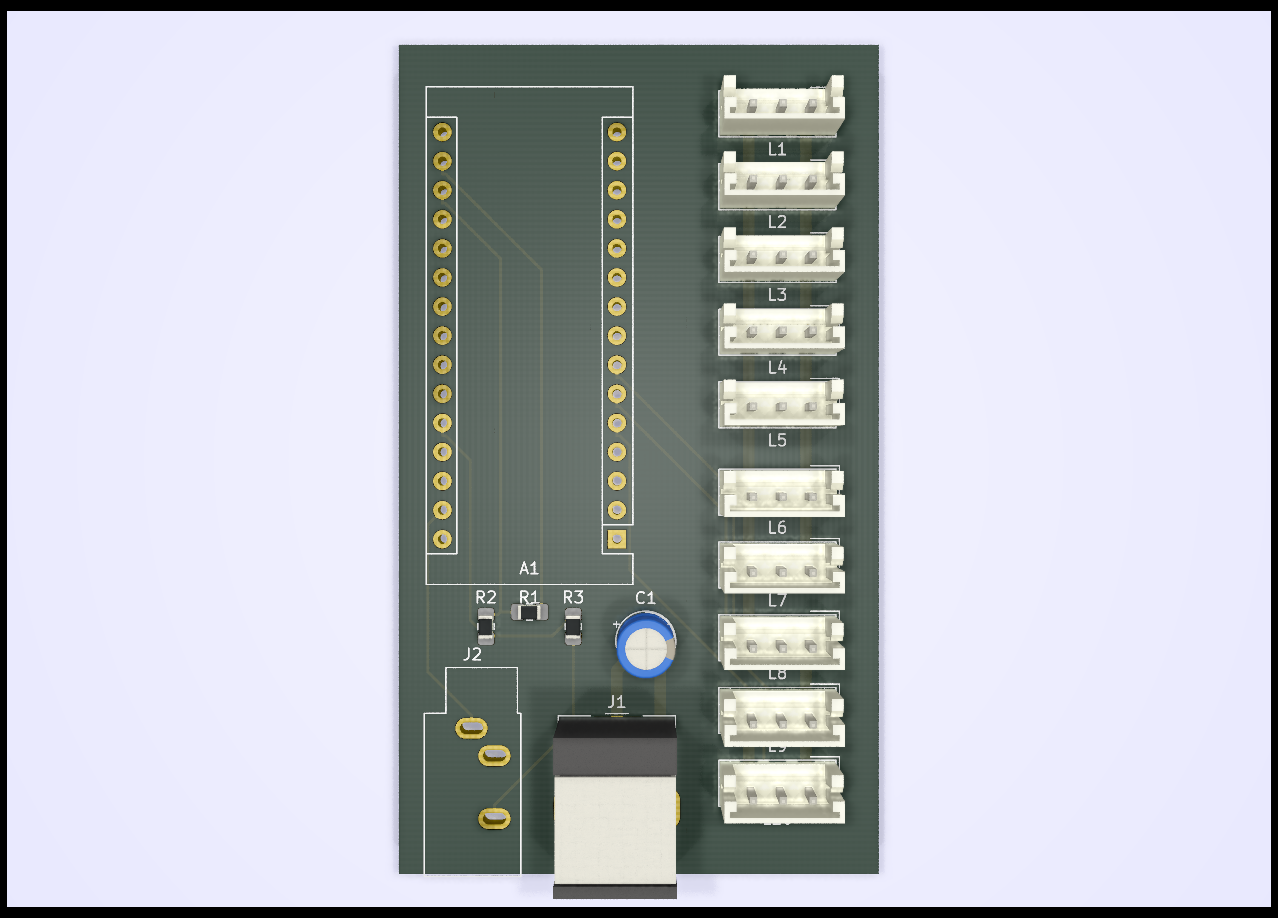
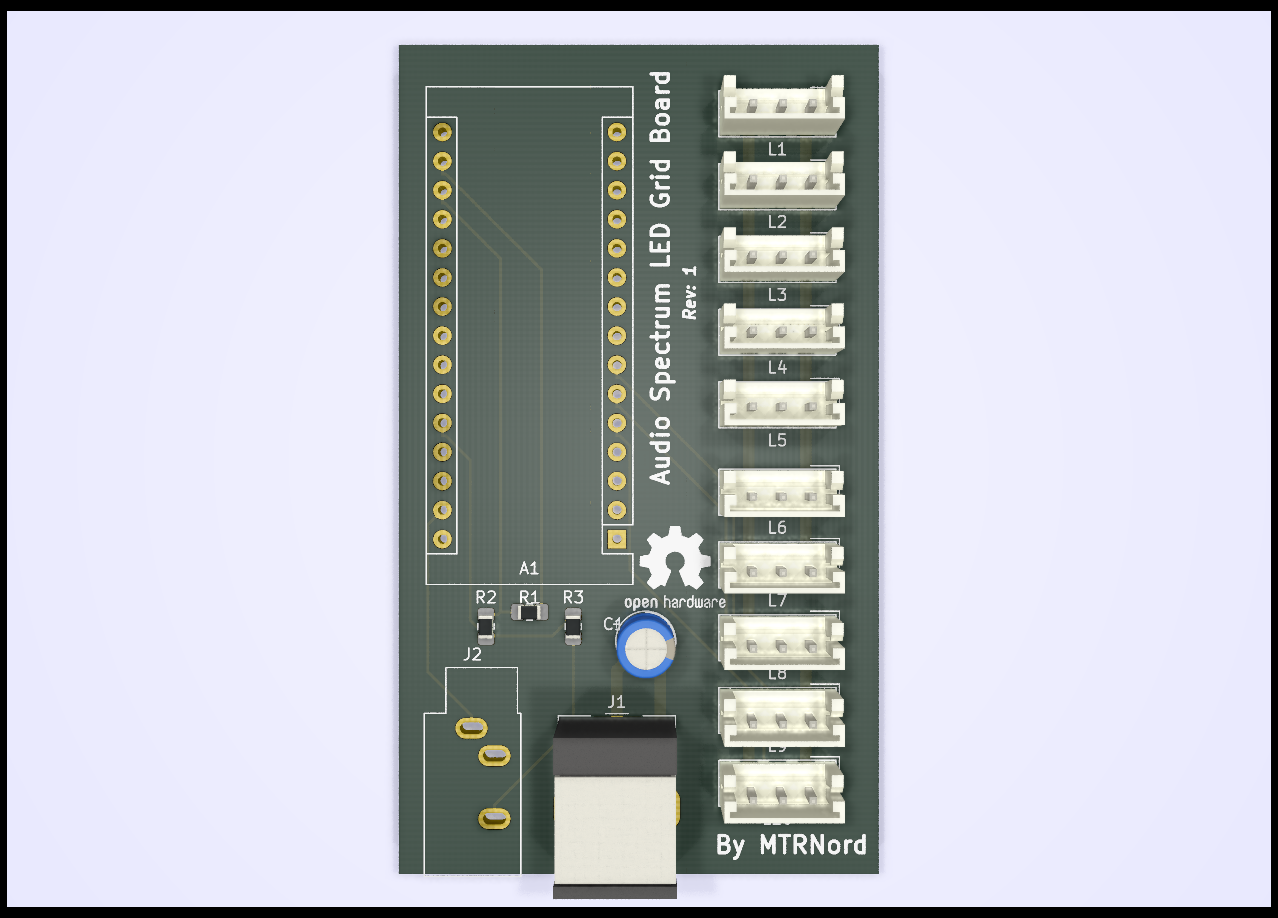
Update Image and update Readme

diff --git a/README.md b/README.md
@@ -1,2 +1,6 @@
 # AudioSpectrumLEDGrid
 A PCB and Software to convert an audio mono signal into a grid made of LEDs.
+
+![Image of the PCB](/Rev1_3D_Ray.png)
+
+## WARNING: SOFTWARE NOT READY!
